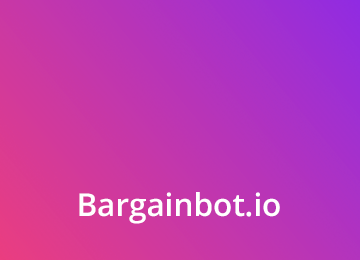
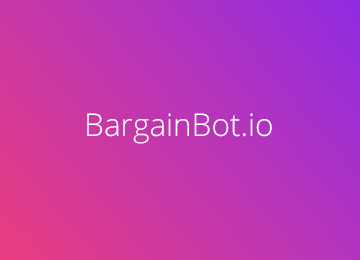
Updating images

Changed region(s): [[0.2139, 0.7385, 0.7944, 0.8615], [0.2444, 0.4308, 0.7639, 0.5538]]

diff --git a/index.html b/index.html
@@ -360,7 +360,7 @@
                   <div class="caption-content">
                   </div>
                 </div>
-                <img src="img/portfolio/jerrys-barber-shop-tn.png" class="img-responsive img-style" alt="" />
+                <img src="img/portfolio/cryptup-tn.png" class="img-responsive img-style" alt="Cryptup.org" />
               </a>
             </div>
             <div class="col-sm-4 portfolio-item">
@@ -368,7 +368,7 @@
                 <div class="caption">
                   <div class="caption-content"></div>
                 </div>
-                <img src="img/portfolio/chicos-pizza-tn.png" class="img-responsive img-style" alt="Chico's Pizza User Interface Design" />
+                <img src="img/portfolio/bargainbot-tn.png" class="img-responsive img-style" alt="Bargainbot.io" />
               </a>
             </div>
             <div class="col-sm-4 portfolio-item">
@@ -377,7 +377,7 @@
                   <div class="caption-content">
                   </div>
                 </div>
-                <img src="img/portfolio/sns.png" class="img-responsive img-style" alt="" />
+                <img src="img/portfolio/flow-tn.png" class="img-responsive img-style" alt="" />
               </a>
             </div>
           </div>
